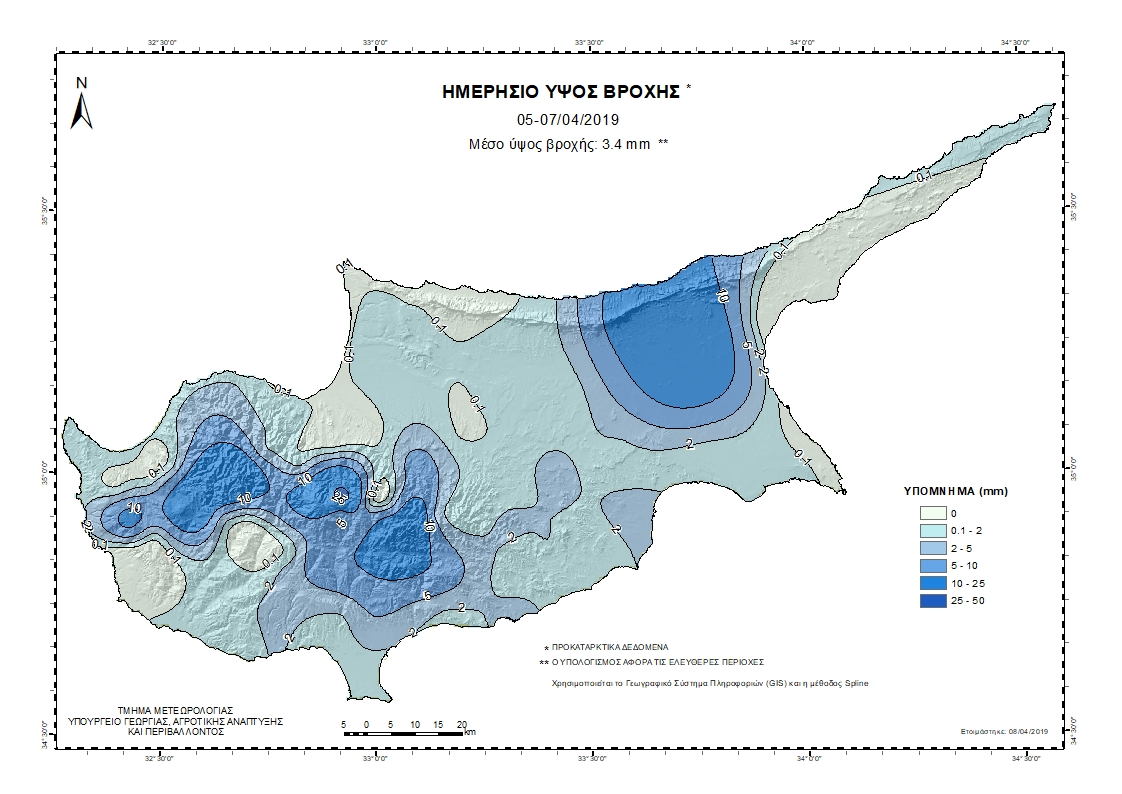
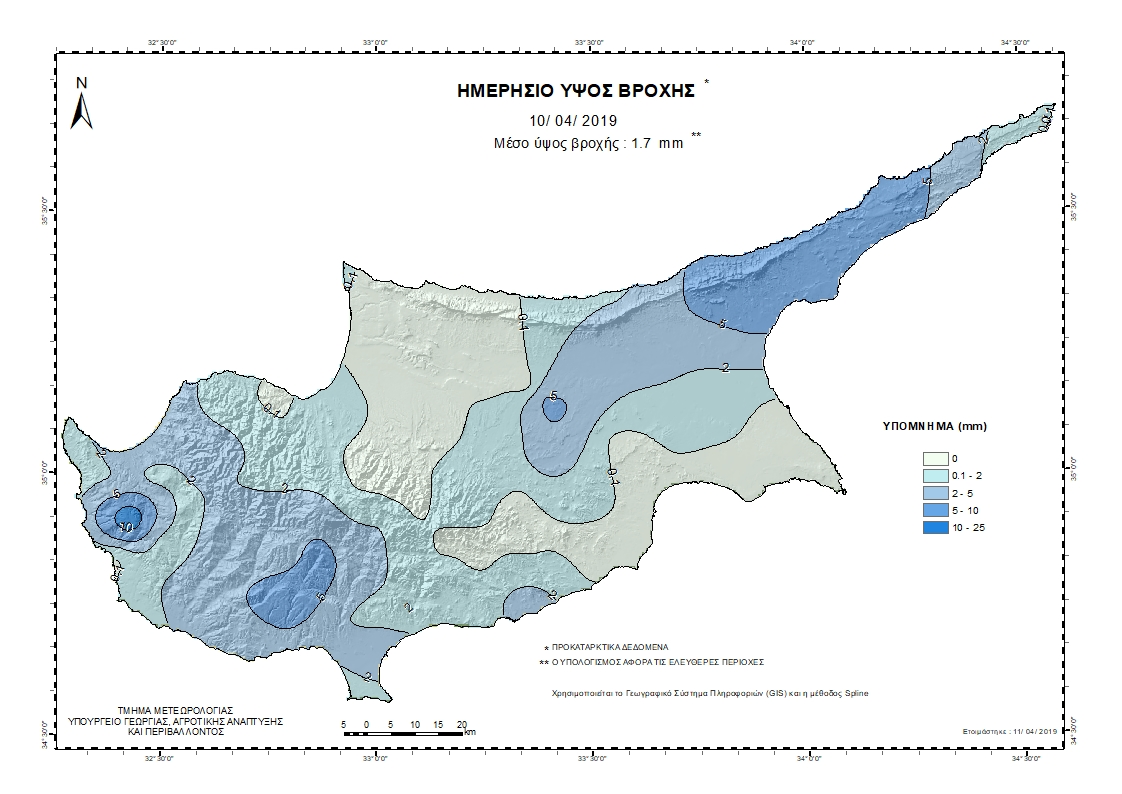
update

diff --git a/weather.html b/weather.html
@@ -1,1 +1,1 @@
-<b>Χάρτης Βροχόπτωσης για τις 09/04/2019</b><p><p>[Πατήστε δεξί κλικ και μετά "Open link in new tab"]: <a href="http://www.moa.gov.cy/moa/ms/ms.nsf/all/9945FFF108881F35C2256FE1003645DC/$file/DailyDeltioRainUntil_10042019_GR.pdf?openelement">ΒΡΟΧΟΠΤΩΣΗ (σε mm)</a></p>
+<b>Χάρτης Βροχόπτωσης για τις 10/04/2019</b><p><p>[Πατήστε δεξί κλικ και μετά "Open link in new tab"]: <a href="http://www.moa.gov.cy/moa/ms/ms.nsf/all/9945FFF108881F35C2256FE1003645DC/$file/DailyDeltioRainUntil_11042019_GR.pdf?openelement">ΒΡΟΧΟΠΤΩΣΗ (σε mm)</a></p>
